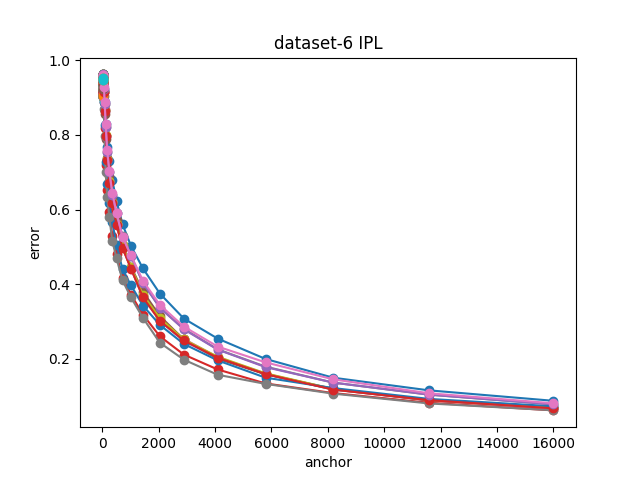
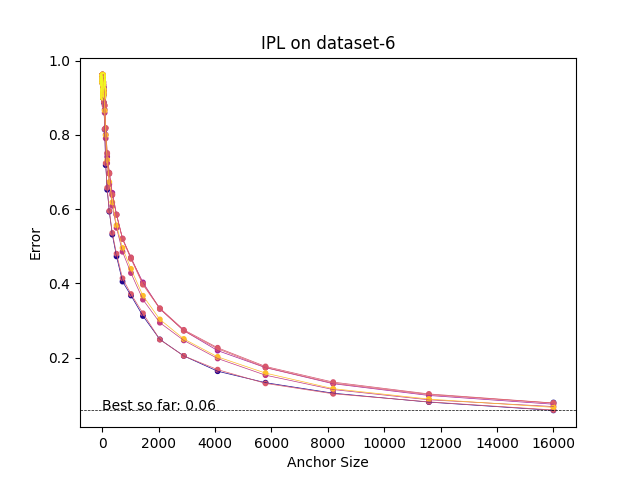
good to go

diff --git a/run_experiment.py b/run_experiment.py
@@ -8,179 +8,127 @@ from ipl import IPL
 from surrogate_model import SurrogateModel
 import numpy as np
 from itertools import product
+from matplotlib.colors import ListedColormap
+from tabulate import tabulate
+from constants import DATA_FILES, NUM_ITERATIONS, NUM_EXPERIMENTS, MIN_ANCHOR_SIZES
 
-def parse_args():
+def parse_arguments():
     parser = argparse.ArgumentParser()
     parser.add_argument('--config_space_file', type=str, default='lcdb_config_space_knn.json')
-    parser.add_argument('--configurations_performance_file', type=str, default='config_performances_dataset-6.csv')
-    # max_anchor_size: connected to the configurations_performance_file. The max value upon which anchors are sampled
+    parser.add_argument('--performance_file', type=str, default='config_performances_dataset-6.csv')
     parser.add_argument('--num_iterations', type=int, default=10)
-
     return parser.parse_args()
 
-def count_evalutions_linear(eval_dict):
-    ''' Calculate total number of evaluations weighted by anchor size.
-    
-    param: eval_dict (dict): Dictionary mapping anchor sizes to number of evaluations
-    
-    return: int: Total weighted number of evaluations
-    '''
-    
-    evaluations = 0
-    for anchor,evals in eval_dict.items():
-        evaluations+=anchor*evals
-    return evaluations
+def calculate_evaluations(evaluation_dict, weight_function):
+    return sum(weight_function(anchor) * evaluations for anchor, evaluations in evaluation_dict.items())
 
-def count_evaluations_log(eval_dict):
-    ''' Calculate total number of evaluations weighted by log(anchor size).
-    
-    param: eval_dict (dict): Dictionary mapping anchor sizes to number of evaluations
-    
-    return: int: Total weighted number of evaluations
-    '''
-    evaluations = 0
-    for anchor,evals in eval_dict.items():
-        evaluations+=np.log(anchor)*evals
-    return evaluations
+def calculate_linear_evaluations(evaluation_dict):
+    return calculate_evaluations(evaluation_dict, lambda x: x)
 
-def count_evaluations_square(eval_dict):
-    ''' Calculate total number of evaluations weighted by square root of anchor size.
-    
-    param: eval_dict (dict): Dictionary mapping anchor sizes to number of evaluations
-    
-    return: int: Total weighted number of evaluations
-    '''
-    evaluations = 0
-    for anchor,evals in eval_dict.items():
-        evaluations += anchor**2 * evals
-    return evaluations
+def calculate_log_evaluations(evaluation_dict):
+    return calculate_evaluations(evaluation_dict, np.log)
 
-def experiment(vertical_eval,iterations,config_space,name):
-    '''
-    Run a single experiment with given vertical evaluator.
-    
-    param: vertical_eval: LCCV or IPL evaluator instance
-    param: iterations (int): number of configurations to evaluate
-    param: config_space: configSpace containing hyperparameter definitions
-    param: name (str): name of dataset for plot labeling
-    
-    return: tuple: (total_evaluations, best_score_found)
-    
-    '''
-    evaluations_dict = {anchor:0 for anchor in vertical_eval.anchors}
-    best_so_far = None
-    
-    for _ in range(iterations):
-        theta_new = dict(config_space.sample_configuration())
-        result,evaluations_dict = vertical_eval.evaluate_model(best_so_far, theta_new,evaluations_dict)
-        final_result = result[-1][1]
-        if best_so_far is None or final_result < best_so_far:
-            best_so_far = final_result
-        x_values = [i[0] for i in result]
-        y_values = [i[1] for i in result]
-        plt.plot(x_values, y_values, "-o")
-    plt.title(f'{name} {vertical_eval.method}')
-    plt.ylabel('error')
-    plt.xlabel('anchor')
-    plt.savefig(f'{name}_{vertical_eval.method}_{iterations}.png')
+def calculate_square_evaluations(evaluation_dict):
+    return calculate_evaluations(evaluation_dict, lambda x: x**2)
+
+def perform_experiment(vertical_evaluator, iterations, config_space, dataset_name):
+    evaluation_counts = {anchor: 0 for anchor in vertical_evaluator.anchors}
+    best_result = None
+
+    for iteration in range(iterations):
+        new_configuration = dict(config_space.sample_configuration())
+        results, evaluation_counts = vertical_evaluator.evaluate_model(best_result, new_configuration, evaluation_counts)
+        final_result = results[-1][1]
+        if best_result is None or final_result < best_result:
+            best_result = final_result
+
+        x_values = [result[0] for result in results]
+        y_values = [result[1] for result in results]
+        norm = plt.Normalize(0, iterations)
+        cmap = plt.get_cmap('plasma', iterations)
+        colors = cmap(norm(iteration))
+        listed_cmap = ListedColormap(cmap(np.linspace(0, 1, iterations)))
+        plt.plot(x_values, y_values, color=colors, linestyle='-', linewidth=0.5)
+        plt.scatter(x_values, y_values, c=[colors] * len(x_values), cmap=listed_cmap, s=10)
+
+    plt.title(f'{vertical_evaluator.method} on {dataset_name}')
+    plt.ylabel('Error')
+    plt.xlabel('Anchor Size')
+    plt.axhline(best_result, color='black', linestyle='--', linewidth=0.5)
+    plt.text(0, best_result, f'Best so far: {best_result:.2f}', color='black')
+    plt.savefig(f'{dataset_name}_{vertical_evaluator.method}_{iterations}.png')
     plt.close()
-    evalutations_linear = count_evalutions_linear(evaluations_dict)
-    evalutations_log = count_evaluations_log(evaluations_dict)
-    evalutations_square = count_evaluations_square(evaluations_dict)
-    return evalutations_linear, evalutations_log, evalutations_square, best_so_far
 
+    linear_evaluations = calculate_linear_evaluations(evaluation_counts)
+    log_evaluations = calculate_log_evaluations(evaluation_counts)
+    square_evaluations = calculate_square_evaluations(evaluation_counts)
+    return linear_evaluations, log_evaluations, square_evaluations, best_result
 
-def run(config_space,data_file,nr_iterations,nr_experiments,min_anchor):
-    '''
-    Run complete experiment comparing LCCV and IPL methods.
-    '''
-    name = data_file.split('_')[-1][:-4]
-    df = pd.read_csv(data_file)
+def run_experiment(config_space, data_file, num_iterations, num_experiments, min_anchor_size):
+    dataset_name = data_file.split('_')[-1][:-4]
+    data_frame = pd.read_csv(data_file)
     surrogate_model = SurrogateModel(config_space)
-    surrogate_model.fit(df)
-    anchors = sorted(df.loc[df.anchor_size>=min_anchor,'anchor_size'].unique())
-    print('surrogate model fitted')
+    surrogate_model.fit(data_frame)
+    anchors = sorted(data_frame.loc[data_frame.anchor_size >= min_anchor_size, 'anchor_size'].unique())
+    print('Surrogate model fitted')
 
-    # LCCV
-    vertical_eval = LCCV(surrogate_model, anchors)
-    lccv_eval_linear = []
-    lccv_eval_log = []
-    lccv_eval_square = []
-    lccv_best = []
-    for _ in range(nr_experiments):
-        evalutations_linear, evalutations_log, evalutations_square,best_score = experiment(vertical_eval,nr_iterations,config_space,name)
-        lccv_eval_linear.append(evalutations_linear)
-        lccv_eval_log.append(evalutations_log)
-        lccv_eval_square.append(evalutations_square)
-        lccv_best.append(best_score)
-    print('LCCV done')
-    # IPL
-    ipl_eval_linear = []
-    ipl_eval_log = []
-    ipl_eval_square = []
-    ipl_best = []
-    vertical_eval = IPL(surrogate_model, anchors)
-    for i in range(nr_experiments):
-        evalutations_linear, evalutations_log, evalutations_square,best_score = experiment(vertical_eval,nr_iterations,config_space,name)
-        ipl_eval_linear.append(evalutations_linear)
-        ipl_eval_log.append(evalutations_log)
-        ipl_eval_square.append(evalutations_square)
-        ipl_best.append(best_score)
-    print('IPL done')
-    
-    # ratio of lccv to ipl: lccv/ipl
-    ratio_linear = ((1/np.array(lccv_best))/np.array(lccv_eval_linear))/((1/np.array(ipl_best))/np.array(ipl_eval_linear))
-    ratio_log = ((1/np.array(lccv_best))/np.array(lccv_eval_log))/((1/np.array(ipl_best))/np.array(ipl_eval_log))
-    ratio_square = ((1/np.array(lccv_best))/np.array(lccv_eval_square))/((1/np.array(ipl_best))/np.array(ipl_eval_square))
-    # Gather results
-    # lccv_eval = np.array(lccv_eval)/anchors[-1]
-    # ipl_eval = np.array(ipl_eval)/anchors[-1]
-    return {('LCCV','score'):f'{np.mean(lccv_best):.2f} std {np.std(lccv_best):.3f}',
-            ('LCCV','evalutations_linear'):f'{np.mean(lccv_eval_linear):.2f} std {np.std(lccv_eval_linear):.3f}',
-            ('LCCV','evalutations_log'):f'{np.mean(lccv_eval_log):.2f} std {np.std(lccv_eval_log):.3f}',
-            ('LCCV','evalutations_square'):f'{np.mean(lccv_eval_square):.2f} std {np.std(lccv_eval_square):.3f}',
-            ('IPL','score'):f' {np.mean(ipl_best):.2f} std {np.std(ipl_best):.3f}',
-            ('IPL','evalutations_linear'):f'{np.mean(ipl_eval_linear):.2f} std {np.std(ipl_eval_linear):.3f}',
-            ('IPL','evalutations_log'):f'{np.mean(ipl_eval_log):.2f} std {np.std(ipl_eval_log):.3f}',
-            ('IPL','evalutations_square'):f'{np.mean(ipl_eval_square):.2f} std {np.std(ipl_eval_square):.3f}',
-            ('ratio','evalutations_linear'):f'{np.mean(ratio_linear):.2f} std {np.std(ratio_linear):.3f}',
-            ('ratio','evalutations_log'):f'{np.mean(ratio_log):.2f} std {np.std(ratio_log):.3f}',
-            ('ratio','evalutations_square'):f'{np.mean(ratio_square):.2f} std {np.std(ratio_square):.3f}'
-            }
+    results = {'LCCV': {'linear': [], 'log': [], 'square': [], 'best': []},
+               'IPL': {'linear': [], 'log': [], 'square': [], 'best': []}}
 
+    for method in ['LCCV', 'IPL']:
+        vertical_evaluator = LCCV(surrogate_model, anchors) if method == 'LCCV' else IPL(surrogate_model, anchors)
+        for _ in range(num_experiments):
+            linear_evaluations, log_evaluations, square_evaluations, best_score = perform_experiment(vertical_evaluator, num_iterations, config_space, dataset_name)
+            results[method]['linear'].append(linear_evaluations)
+            results[method]['log'].append(log_evaluations)
+            results[method]['square'].append(square_evaluations)
+            results[method]['best'].append(best_score)
+        print(f'{method} done')
+
+    ratio_linear = (1 / np.array(results['LCCV']['best']) / np.array(results['LCCV']['linear'])) / \
+                   (1 / np.array(results['IPL']['best']) / np.array(results['IPL']['linear']))
+    ratio_log = (1 / np.array(results['LCCV']['best']) / np.array(results['LCCV']['log'])) / \
+                (1 / np.array(results['IPL']['best']) / np.array(results['IPL']['log']))
+    ratio_square = (1 / np.array(results['LCCV']['best']) / np.array(results['LCCV']['square'])) / \
+                   (1 / np.array(results['IPL']['best']) / np.array(results['IPL']['square']))
+
+    return {
+        ('LCCV', 'score'): f'{np.mean(results["LCCV"]["best"]):.2f} std {np.std(results["LCCV"]["best"]):.3f}',
+        ('LCCV', 'evaluations_linear'): f'{np.mean(results["LCCV"]["linear"]):.2f} std {np.std(results["LCCV"]["linear"]):.3f}',
+        ('LCCV', 'evaluations_log'): f'{np.mean(results["LCCV"]["log"]):.2f} std {np.std(results["LCCV"]["log"]):.3f}',
+        ('LCCV', 'evaluations_square'): f'{np.mean(results["LCCV"]["square"]):.2f} std {np.std(results["LCCV"]["square"]):.3f}',
+        ('IPL', 'score'): f'{np.mean(results["IPL"]["best"]):.2f} std {np.std(results["IPL"]["best"]):.3f}',
+        ('IPL', 'evaluations_linear'): f'{np.mean(results["IPL"]["linear"]):.2f} std {np.std(results["IPL"]["linear"]):.3f}',
+        ('IPL', 'evaluations_log'): f'{np.mean(results["IPL"]["log"]):.2f} std {np.std(results["IPL"]["log"]):.3f}',
+        ('IPL', 'evaluations_square'): f'{np.mean(results["IPL"]["square"]):.2f} std {np.std(results["IPL"]["square"]):.3f}',
+        ('ratio', 'evaluations_linear'): f'{np.mean(ratio_linear):.2f} std {np.std(ratio_linear):.3f}',
+        ('ratio', 'evaluations_log'): f'{np.mean(ratio_log):.2f} std {np.std(ratio_log):.3f}',
+        ('ratio', 'evaluations_square'): f'{np.mean(ratio_square):.2f} std {np.std(ratio_square):.3f}'
+    }
+
+def format_results_as_table(result_dataframe):
+    return tabulate(result_dataframe, headers='keys', tablefmt='grid', showindex="always")
 
 if __name__ == '__main__':
-    root = logging.getLogger()
-    root.setLevel(logging.INFO)
-    
+    logging.basicConfig(level=logging.INFO)
+
     config_space = ConfigSpace.ConfigurationSpace.from_json('lcdb_config_space_knn.json')
-    data_files = ['config_performances_dataset-6.csv',
-                  'config_performances_dataset-11.csv',
-                  'config_performances_dataset-1457.csv']
-    nr_iterations = 100
-    nr_experiments = 10
-    data_file_names = [data_file.split('_')[-1][:-4] for data_file in data_files]
-    min_anchor = {'dataset-6':16,
-                  'dataset-11':32,
-                  'dataset-1457':128}
-    tuples = [(a,b) for a,b in product(['LCCV','IPL','ratio'],['score','evalutations_linear','evalutations_log','evalutations_square'])]
-    index = pd.MultiIndex.from_tuples(tuples,names=['method','metric'])
-    columns = data_file_names
-    result_df = pd.DataFrame(columns=columns ,index=index)
+    data_files = ['config_performances_dataset-6.csv', 'config_performances_dataset-11.csv', 'config_performances_dataset-1457.csv']
+    num_iterations = 100
+    num_experiments = 10
+    min_anchor_sizes = {'dataset-6': 16, 'dataset-11': 32, 'dataset-1457': 128}
 
-    for data_file,name in zip(data_files,columns):
-        print(name)
-        result = run(config_space,data_file,nr_iterations,nr_experiments,min_anchor[name])
-        result_df[name] = result 
-        result_df.to_csv('comparison_results_with_ratio.csv')
+    metric_tuples = [(method, metric) for method, metric in product(['LCCV', 'IPL', 'ratio'], ['score', 'evaluations_linear', 'evaluations_log', 'evaluations_square'])]
+    index = pd.MultiIndex.from_tuples(metric_tuples, names=['method', 'metric'])
+    columns = [data_file.split('_')[-1][:-4] for data_file in data_files]
+    result_dataframe = pd.DataFrame(columns=columns, index=index)
 
-    def format_results_as_table(result_df):
-        """
-        Format the result DataFrame into a clean, tabular format using the `tabulate` library.
-        """
-        formatted_table = tabulate(result_df, headers='keys', tablefmt='grid', showindex="always")
-        return formatted_table
-    from tabulate import tabulate
-    formatted_table = format_results_as_table(result_df)
-    with open('formatted_comparison_results_with_ratio.txt', 'w') as f:
-        f.write(formatted_table)
+    for data_file, dataset_name in zip(data_files, columns):
+        print(dataset_name)
+        result = run_experiment(config_space, data_file, num_iterations, num_experiments, min_anchor_sizes[dataset_name])
+        result_dataframe[dataset_name] = result
+        result_dataframe.to_csv('comparison_results_with_ratio.csv')
+
+    formatted_table = format_results_as_table(result_dataframe)
+    with open('formatted_comparison_results_with_ratio.txt', 'w') as file:
+        file.write(formatted_table)

diff --git a/constants.py b/constants.py
@@ -1,0 +1,14 @@
+DATA_FILES = [
+    'config_performances_dataset-6.csv',
+    'config_performances_dataset-11.csv',
+    'config_performances_dataset-1457.csv'
+]
+
+NUM_ITERATIONS = 100
+NUM_EXPERIMENTS = 10
+
+MIN_ANCHOR_SIZES = {
+    'dataset-6': 16,
+    'dataset-11': 32,
+    'dataset-1457': 128
+}
